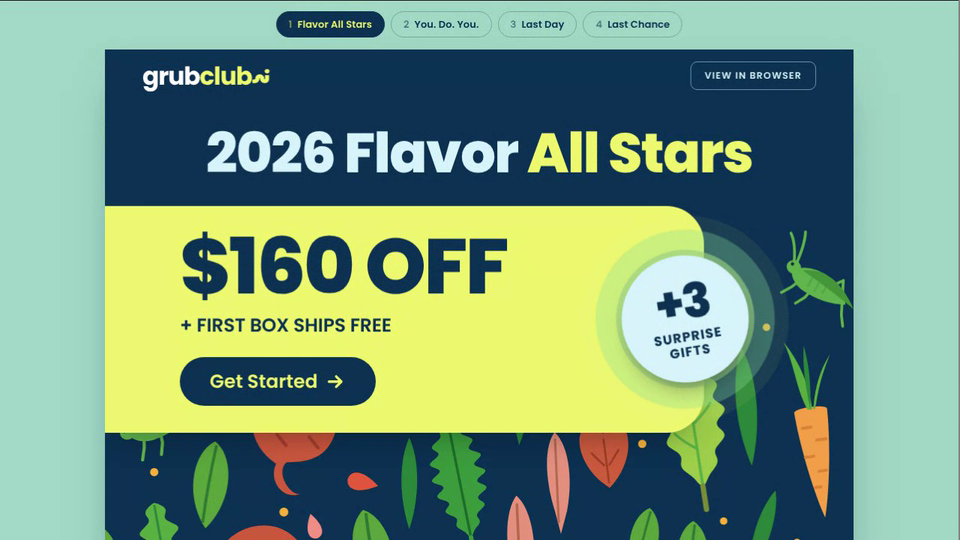
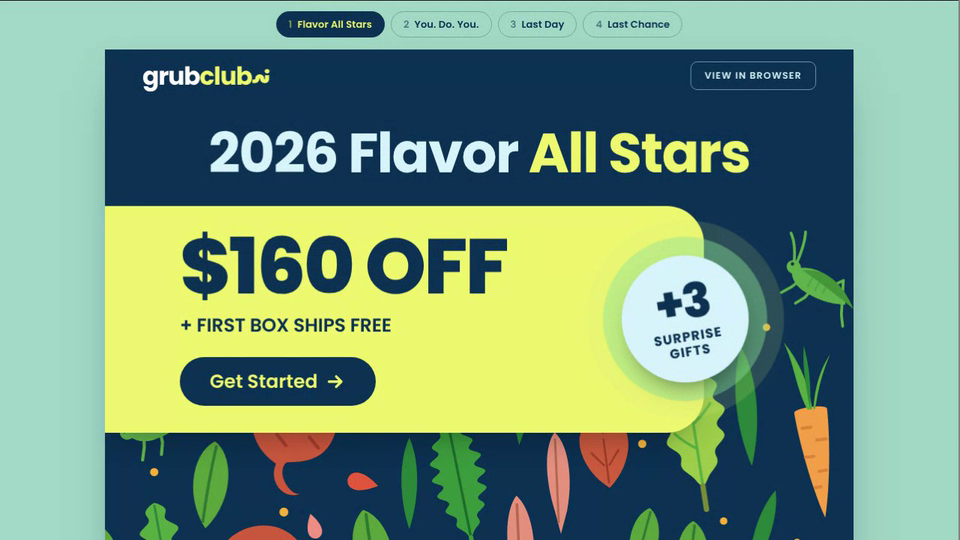
Flavor All Stars: headlines one weight lighter (#205)
Claude-Session: https://claude.ai/code/session_01AHeBdyyngqxczdkvkomgou

diff --git a/flavor-all-stars/index.html b/flavor-all-stars/index.html
@@ -59,7 +59,7 @@ footer p{margin:1.8cqw 0 0;max-width:62cqw;font-size:max(8.5px,1.05cqw);line-hei
 .pat{position:relative;background:var(--navy);overflow:hidden}
 .pat>*{position:relative;z-index:1}
 .pat>svg.art{position:absolute;inset:0;width:100%;height:100%;z-index:0;display:block}
-.t{font-weight:800;letter-spacing:-.025em;line-height:.98;margin:0}
+.t{font-weight:700;letter-spacing:-.025em;line-height:.98;margin:0}
 .t em{font-style:normal;color:var(--kiwi)}
 .ps{text-transform:uppercase;font-weight:500;letter-spacing:.03em}
 #e2 .ps{font-size:.6em}
